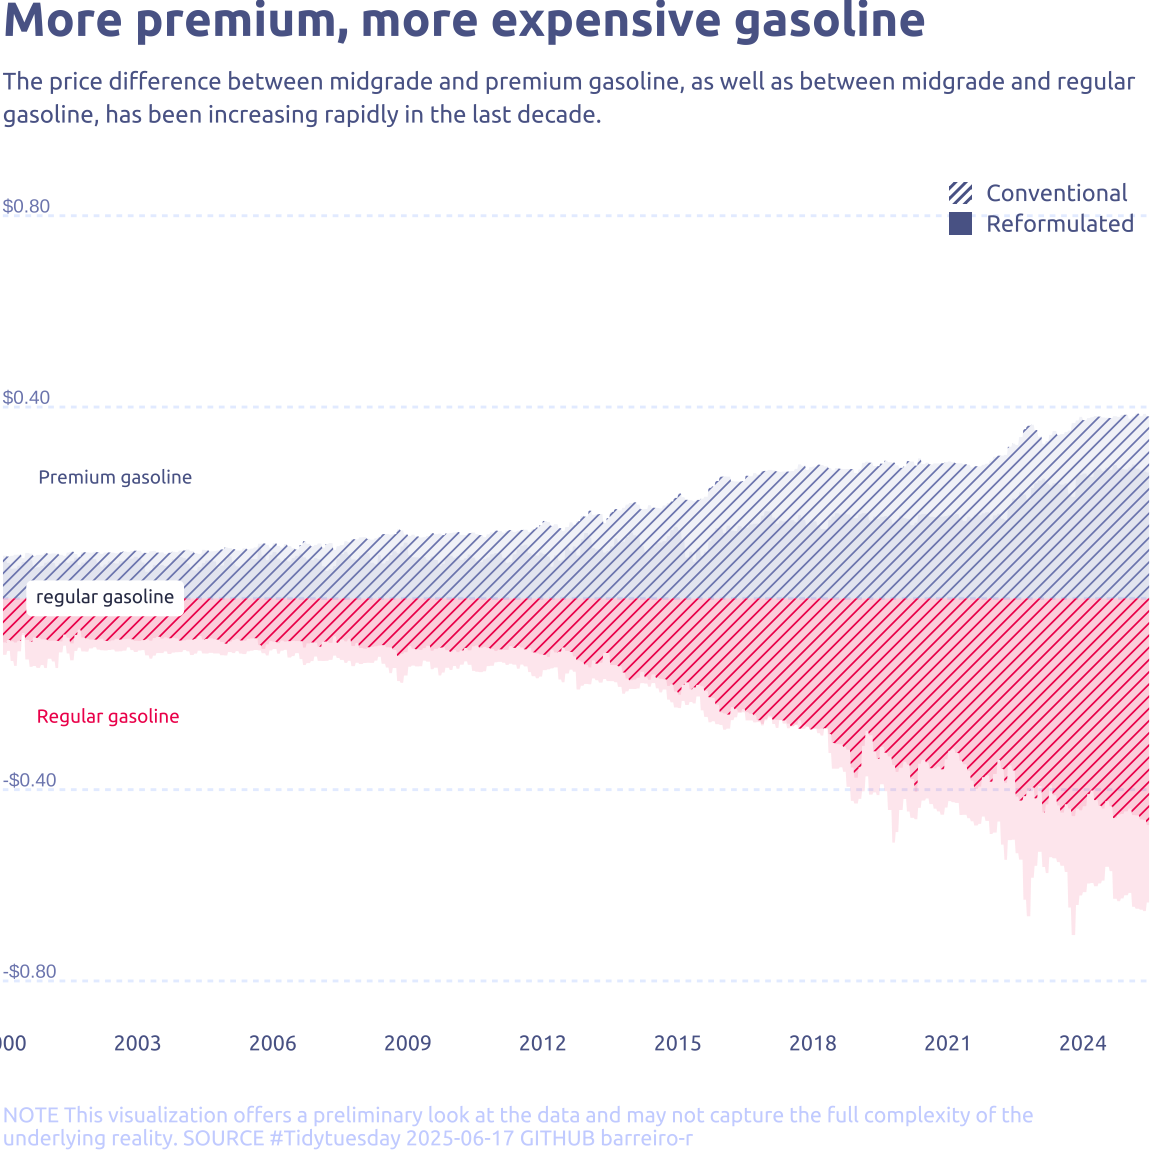
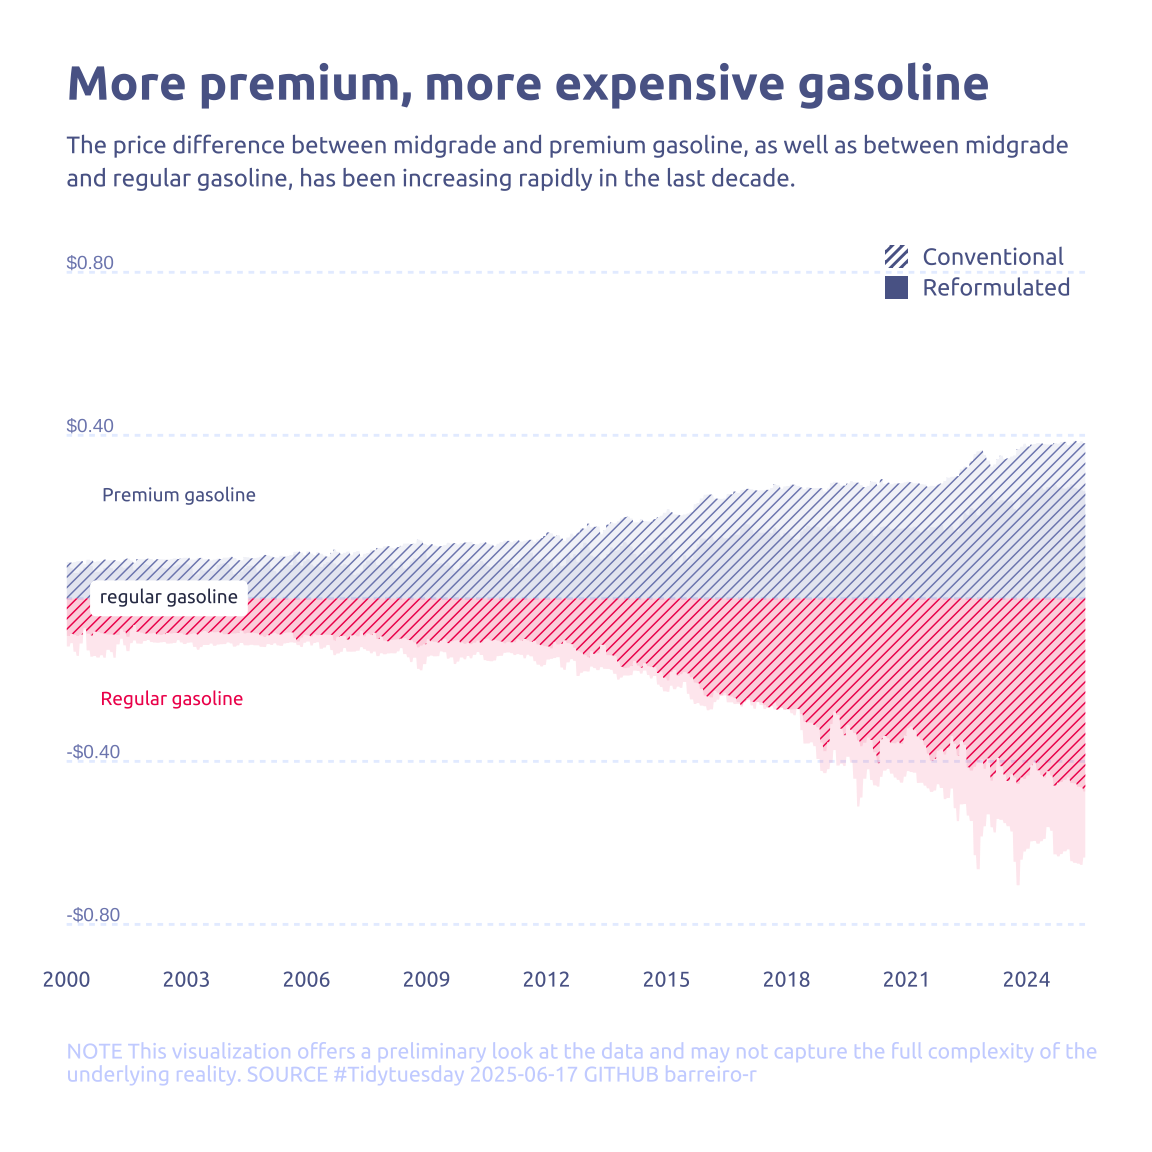
Built site for gh-pages

diff --git a/posts/2025-07-01/notebook.html b/posts/2025-07-01/notebook.html
@@ -467,7 +467,7 @@ Note
 <span id="cb9-44"><a href="#cb9-44" aria-hidden="true" tabindex="-1"></a>    <span class="at">title =</span> <span class="st">"More premium, more expensive gasoline"</span>,</span>
 <span id="cb9-45"><a href="#cb9-45" aria-hidden="true" tabindex="-1"></a>    <span class="at">subtitle =</span> <span class="fu">str_wrap</span>(</span>
 <span id="cb9-46"><a href="#cb9-46" aria-hidden="true" tabindex="-1"></a>      <span class="st">"The price difference between midgrade and premium gasoline, as well as between midgrade and regular gasoline, has been increasing rapidly in the last decade."</span>,</span>
-<span id="cb9-47"><a href="#cb9-47" aria-hidden="true" tabindex="-1"></a>      <span class="at">width =</span> <span class="dv">100</span></span>
+<span id="cb9-47"><a href="#cb9-47" aria-hidden="true" tabindex="-1"></a>      <span class="at">width =</span> <span class="dv">90</span></span>
 <span id="cb9-48"><a href="#cb9-48" aria-hidden="true" tabindex="-1"></a>    ),</span>
 <span id="cb9-49"><a href="#cb9-49" aria-hidden="true" tabindex="-1"></a>    <span class="at">pattern_spacing =</span> <span class="cn">NULL</span>,</span>
 <span id="cb9-50"><a href="#cb9-50" aria-hidden="true" tabindex="-1"></a>    <span class="at">y =</span> <span class="cn">NULL</span>,</span>
@@ -534,7 +534,7 @@ Note
 <span id="cb9-111"><a href="#cb9-111" aria-hidden="true" tabindex="-1"></a>    <span class="at">legend.key.size =</span> <span class="fu">unit</span>(<span class="fl">0.3</span>, <span class="st">'cm'</span>),</span>
 <span id="cb9-112"><a href="#cb9-112" aria-hidden="true" tabindex="-1"></a>    <span class="at">axis.text.y =</span> <span class="fu">element_blank</span>(),</span>
 <span id="cb9-113"><a href="#cb9-113" aria-hidden="true" tabindex="-1"></a>    <span class="at">legend.key.spacing.y =</span> <span class="fu">unit</span>(<span class="dv">3</span>, <span class="st">'pt'</span>),</span>
-<span id="cb9-114"><a href="#cb9-114" aria-hidden="true" tabindex="-1"></a>    <span class="at">plot.margin =</span> <span class="fu">margin</span>(<span class="dv">1</span>, <span class="dv">1</span>, <span class="dv">1</span>, <span class="dv">1</span>),</span>
+<span id="cb9-114"><a href="#cb9-114" aria-hidden="true" tabindex="-1"></a>    <span class="at">plot.margin =</span> <span class="fu">margin</span>(<span class="dv">25</span>, <span class="dv">25</span>, <span class="dv">25</span>, <span class="dv">25</span>),</span>
 <span id="cb9-115"><a href="#cb9-115" aria-hidden="true" tabindex="-1"></a>    <span class="at">panel.grid.major.y =</span> <span class="fu">element_line</span>(</span>
 <span id="cb9-116"><a href="#cb9-116" aria-hidden="true" tabindex="-1"></a>      <span class="at">color =</span> cool_gray5,</span>
 <span id="cb9-117"><a href="#cb9-117" aria-hidden="true" tabindex="-1"></a>      <span class="at">linewidth =</span> .<span class="dv">5</span>,</span>

diff --git a/index.html b/index.html
@@ -224,7 +224,7 @@ window.Quarto = {
 
 <div class="quarto-listing quarto-listing-container-grid" id="listing-listing">
 <div class="list grid quarto-listing-cols-3">
-<div class="g-col-1" data-index="0" data-categories="dGltZXNlcmllcw==" data-listing-date-sort="1751338800000" data-listing-file-modified-sort="1751484520600" data-listing-date-modified-sort="NaN" data-listing-reading-time-sort="10" data-listing-word-count-sort="1862">
+<div class="g-col-1" data-index="0" data-categories="dGltZXNlcmllcw==" data-listing-date-sort="1751338800000" data-listing-file-modified-sort="1751485467270" data-listing-date-modified-sort="NaN" data-listing-reading-time-sort="10" data-listing-word-count-sort="1863">
 <a href="./posts/2025-07-01/notebook.html" class="quarto-grid-link">
 <div class="quarto-grid-item card h-100 card-left">
 <p class="card-img-top">
